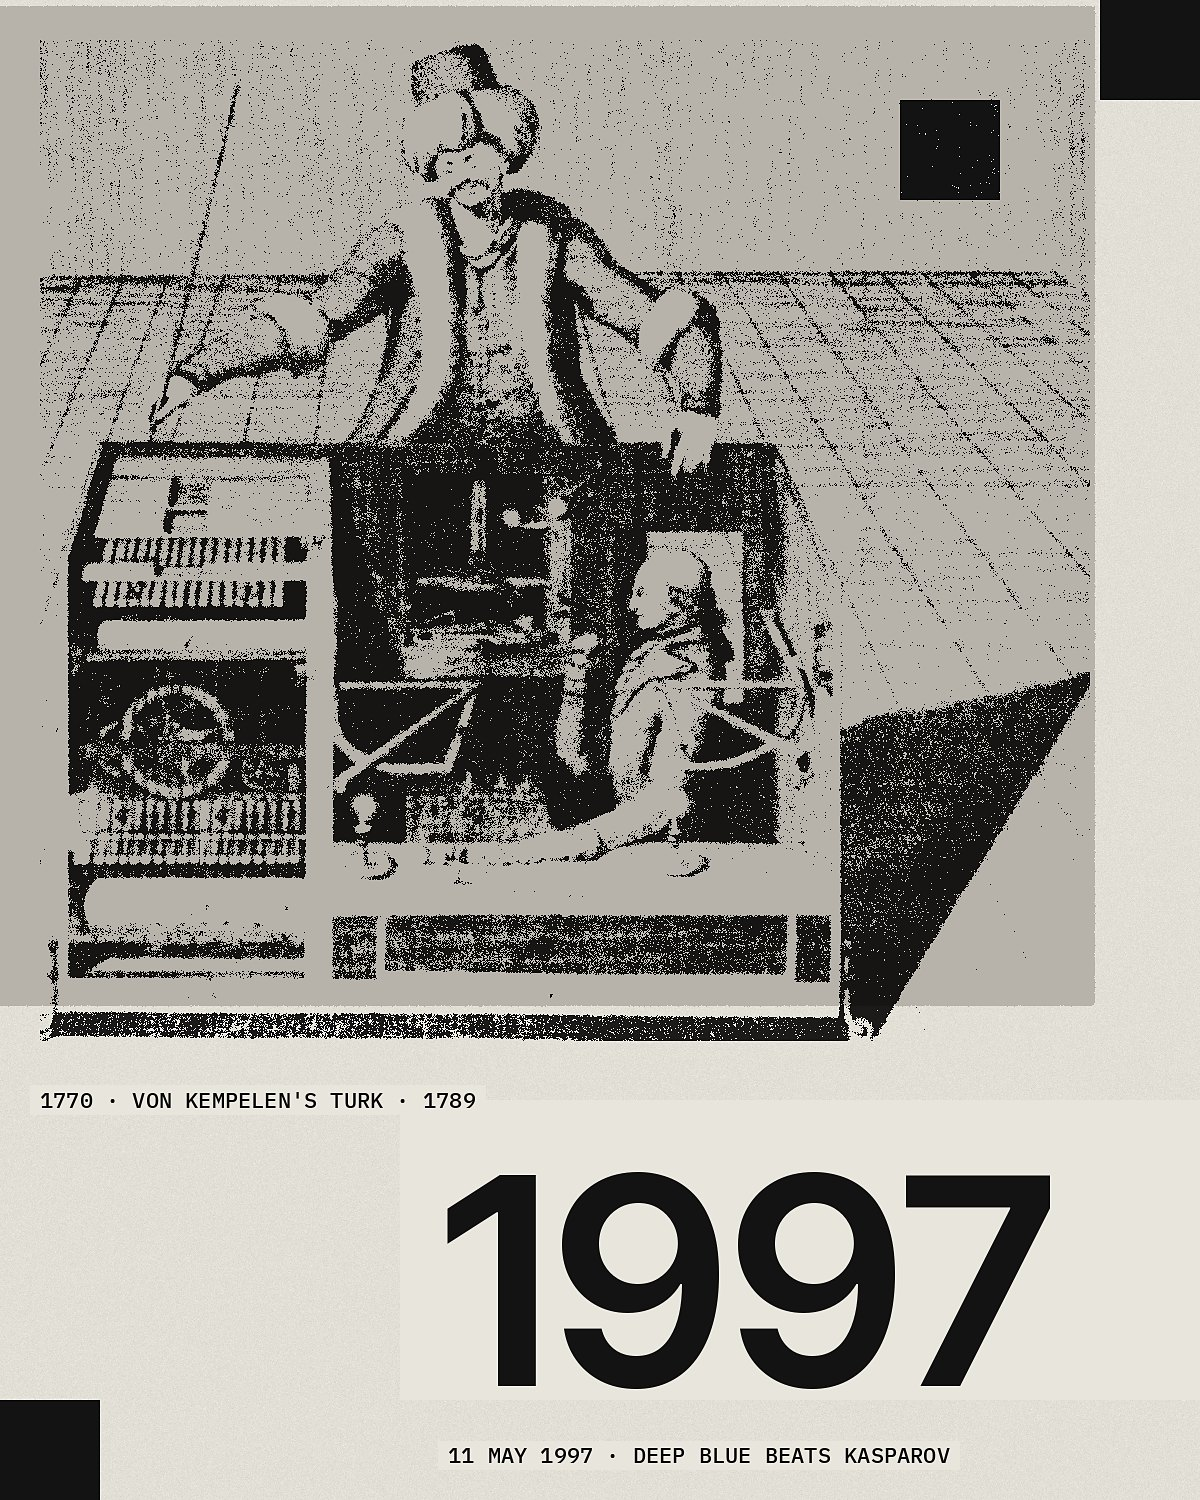
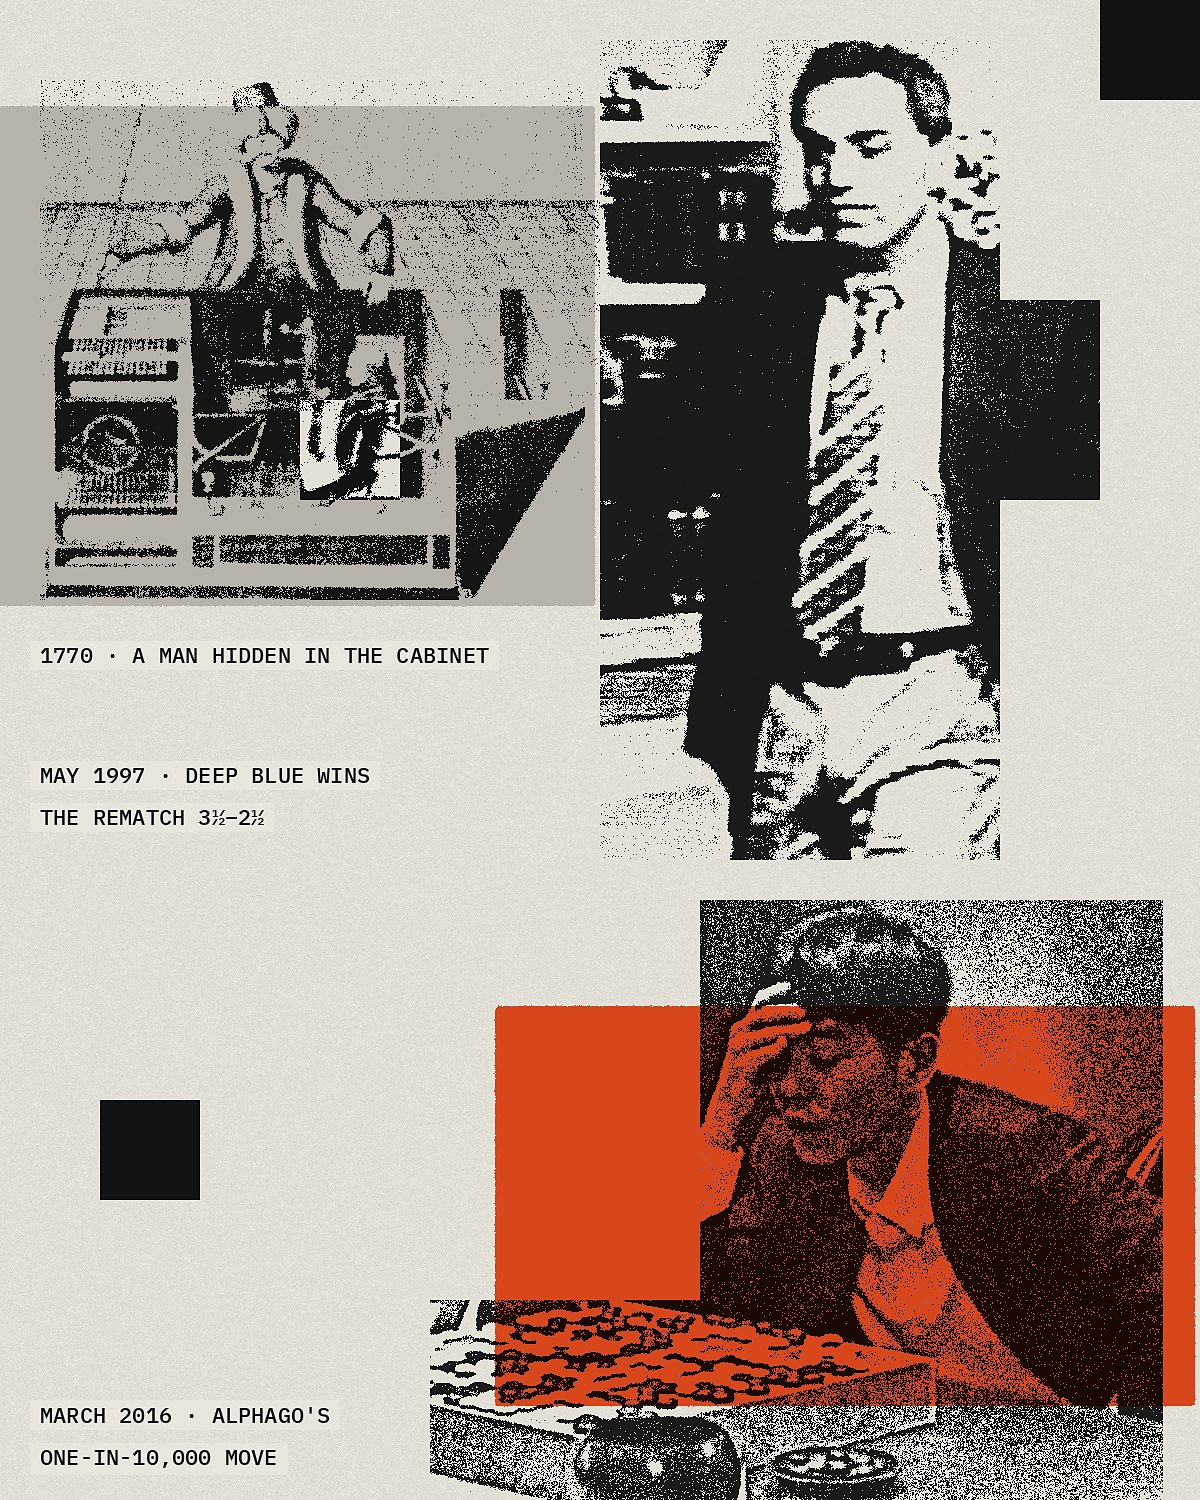
History of AI card redesigned: three machines at play (Turk 1770, Kasparov 1997, Lee Sedol 2016), a vertical version for phones and the history page, and variations on the three moments in the timeline
The two stills of people are an owner exception, cleared by the owner as fair use.
Engine: cut a fragment out along the grid (keep) and give a field its own colour.

Claude-Session: https://claude.ai/code/session_01Sc1pzyhKsrC3mM6v1oVhk6

diff --git a/src/styles/site.css b/src/styles/site.css
@@ -244,6 +244,7 @@ a.hist:hover .ht { text-decoration: underline; }
 .hcard:hover img { filter: brightness(0.96); }
 .hcard:hover .hc-t { text-decoration: underline; text-underline-offset: 6px; }
 .hcard:focus-visible { outline: 2px solid var(--ink); outline-offset: 6px; }
+.hpano img { aspect-ratio: 11 / 4; }
 .hc-side { display: grid; grid-template-columns: calc(var(--c) * 5 + var(--g) * 4) minmax(0, 1fr); column-gap: var(--g); row-gap: 28px; align-items: start; margin-top: 12px; }
 .hc-body { display: flex; flex-direction: column; gap: 12px; }
 .hc-t { margin: 0; font-size: 32px; line-height: 36px; font-weight: 600; letter-spacing: -0.015em; }
@@ -282,6 +283,7 @@ a.hist:hover .ht { text-decoration: underline; }
   .ph-site { display: none; }
 }
 @media (max-width: 640px) {
+  .hpano img { aspect-ratio: 4 / 5; }
   :root { --g: 20px; }
   .site-head { flex-wrap: wrap; row-gap: 12px; }
   .site-nav { flex-wrap: wrap; column-gap: 18px; row-gap: 6px; font-size: 15px; }

diff --git a/scripts/collages.py b/scripts/collages.py
@@ -80,11 +80,13 @@ def render(spec):
         canvas = canvas * (1 - mask[..., None]) + rgb * mask[..., None]
 
     col = hexrgb(spec['colour'])
-    for c, r, w, h in spec.get('fields', []):            # bold colour fields, misregistered
+    for fld in spec.get('fields', []):                    # bold colour fields, misregistered
+        c, r, w, h = fld[:4]
+        fcol = hexrgb(fld[4]) if len(fld) > 4 else col    # a field may carry its own colour
         m = np.roll(np.roll(rect(c, r, w, h), 6, axis=0), -5, axis=1)
         m[:6] = 0; m[:, -5:] = 0                           # no wrap-around at the edges
         edge = ndimage.gaussian_filter(m, 2.2) + rng.normal(0, 0.06, m.shape)
-        paint((edge > 0.5).astype(float), col)
+        paint((edge > 0.5).astype(float), fcol)
     for c, r, w, h in spec.get('black', []):
         paint(rect(c, r, w, h), INK)
 
@@ -92,7 +94,13 @@ def render(spec):
     for f in spec['fragments']:
         g = gray(f['img'], f['box'], f.get('crop'), f.get('channel'), f.get('detail', 0))
         m = halftone(g, f.get('period', 9)) if f['how'] == 'halftone' else screen(g, f.get('level', 0.5), blur=f.get('blur', 1.1))
-        ink = np.clip(ink + place(m, *f['at']), 0, 1)
+        pm = place(m, *f['at'])
+        if f.get('keep'):                                  # cut the fragment out along the grid: keep only these squares
+            k = np.zeros((H, W))
+            for kc, kr, kw, kh in f['keep']:
+                k = np.maximum(k, rect(kc, kr, kw, kh))
+            pm = pm * k
+        ink = np.clip(ink + pm, 0, 1)
     base = ink.copy()
     for c, r, w, h, dx, dy in spec.get('shift', []):      # cut-up squares
         m = rect(c, r, w, h)
@@ -197,18 +205,44 @@ SPECS = [
          fragments=[dict(img='governor-boulton-watt.jpg', box=(373, 800), crop=(0.53, 0.29, 0.885, 0.745), channel='R', how='screen', level=0.36, detail=1.2, blur=0.8, at=(300, 90))],
          shift=[(3, 7, 1, 1, 1, 0)], invert=[(1, 2, 1, 1)],
          labels=[('1960 · "THE PURPOSE PUT INTO THE MACHINE"', 760, 400), ('NORBERT WIENER', 760, 442), ("1788 · THE LAP ENGINE'S GOVERNOR · BOULTON AND WATT", 40, 960)]),
+    # History of AI: three machines at play (owner, 21 Nov 2026). The two stills of people are the owner's exception to the
+    # no-people rule, cleared by the owner; the Turk is public domain.
     dict(id='collage-history', size=HISTORY, colour=GREY, seed=1770,
-         fields=[(0, 0, 9, 7)], black=[(9, 0, 1, 1), (21, 7, 1, 1)],
-         fragments=[dict(img='turk-racknitz-1789.jpg', box=(724, 690), crop=(0.13, 0.115, 0.94, 0.96), how='screen', level=0.33, blur=1.3, at=(60, 30))],
-         shift=[(2, 5, 1, 1, 1, 0)], invert=[(7, 1, 1, 1)],
-         type=[dict(slab=(11, 2, 9, 4), parts=[('1997', 330, 1160, 205)])],
-         labels=[('11 MAY 1997 · DEEP BLUE BEATS KASPAROV', 1168, 640), ("1770 · VON KEMPELEN'S CHESS-PLAYING TURK · ENGRAVING, 1789", 40, 760)]),
+         fields=[(0, 1, 7, 6), (15, 1, 7, 6, ORANGE)], black=[(7, 0, 1, 1), (21, 7, 1, 1)],
+         fragments=[
+             dict(img='turk-racknitz-1789.jpg', box=(587, 560), crop=(0.13, 0.115, 0.94, 0.96), how='screen', level=0.33, blur=1.3, at=(60, 100)),
+             dict(img='kasparov-1997-still.jpg', box=(681, 680), crop=(0.0, 0.04, 0.53, 1.0), how='screen', level=0.36, detail=1.2, blur=1.0, at=(760, 50),
+                  keep=[(10, 0, 3, 8), (13, 3, 1, 2)]),
+             dict(img='lee-sedol-2016-still.jpg', box=(733, 640), crop=(0.33, 0.0, 1.0, 1.0), channel='B', how='screen', level=0.27, detail=1.0, blur=1.0, at=(1440, 80),
+                  keep=[(14, 5, 6, 3), (17, 0, 5, 8)])],
+         shift=[(6, 2, 1, 3, 1, 0)], invert=[(4, 6, 1, 1)],
+         labels=[('1770 · A MAN HIDDEN IN THE CABINET', 40, 760), ('MAY 1997 · DEEP BLUE WINS THE REMATCH 3½–2½', 780, 760), ("MARCH 2016 · ALPHAGO'S ONE-IN-10,000 MOVE", 1500, 760)]),
     dict(id='collage-history-tall', size=PAGE, colour=GREY, seed=1770,
-         fields=[(0, 0, 11, 10)], black=[(11, 0, 1, 1), (0, 14, 1, 1)],
-         fragments=[dict(img='turk-racknitz-1789.jpg', box=(1050, 1001), crop=(0.13, 0.115, 0.94, 0.96), how='screen', level=0.33, blur=1.4, at=(40, 40))],
-         shift=[(2, 8, 1, 1, 1, 0)], invert=[(9, 1, 1, 1)],
-         type=[dict(slab=(4, 11, 8, 3), parts=[('1997', 290, 440, 1105)])],
-         labels=[('11 MAY 1997 · DEEP BLUE BEATS KASPAROV', 448, 1440), ("1770 · VON KEMPELEN'S TURK · 1789", 40, 1085)]),
+         fields=[(0, 1, 6, 5), (5, 10, 7, 4, ORANGE)], black=[(11, 0, 1, 1), (1, 11, 1, 1)],
+         fragments=[
+             dict(img='turk-racknitz-1789.jpg', box=(545, 520), crop=(0.13, 0.115, 0.94, 0.96), how='screen', level=0.33, blur=1.3, at=(40, 80)),
+             dict(img='kasparov-1997-still.jpg', box=(821, 820), crop=(0.0, 0.04, 0.53, 1.0), how='screen', level=0.36, detail=1.2, blur=1.0, at=(380, 40),
+                  keep=[(6, 0, 4, 9), (10, 3, 1, 2)]),
+             dict(img='lee-sedol-2016-still.jpg', box=(733, 640), crop=(0.33, 0.0, 1.0, 1.0), channel='B', how='screen', level=0.27, detail=1.0, blur=1.0, at=(430, 860),
+                  keep=[(4, 13, 6, 2), (7, 9, 5, 6)])],
+         shift=[(5, 2, 1, 2, 1, 0)], invert=[(3, 4, 1, 1)],
+         labels=[('1770 · A MAN HIDDEN IN THE CABINET', 40, 640), ('MAY 1997 · DEEP BLUE WINS', 40, 760), ('THE REMATCH 3½–2½', 40, 802), ("MARCH 2016 · ALPHAGO'S", 40, 1400), ('ONE-IN-10,000 MOVE', 40, 1442)]),
+    # Variations for the three moments in the history timeline (4:3, as the timeline shows them)
+    dict(id='collage-moment-turk', size=ISM, colour=GREY, seed=1789,
+         fields=[(0, 1, 9, 10)], black=[(9, 0, 1, 1), (15, 11, 1, 1)],
+         fragments=[dict(img='turk-racknitz-1789.jpg', box=(757, 1000), crop=(0.42, 0.40, 0.78, 0.92), how='screen', level=0.34, blur=1.4, at=(120, 100))],
+         shift=[(2, 7, 1, 2, -1, 0)], invert=[(7, 3, 1, 1)],
+         labels=[('2005 · AMAZON NAMES A PLATFORM FOR', 960, 520), ('PAID ONLINE TASKS AFTER THE TURK', 960, 562), ('THE MAN INSIDE · RACKNITZ, 1789', 40, 1150)]),
+    dict(id='collage-moment-deep-blue', size=ISM, colour=GREY, seed=1997,
+         fields=[(0, 1, 7, 10)], black=[(7, 0, 1, 1), (15, 11, 1, 1)],
+         fragments=[dict(img='deep-blue-chm.jpg', box=(415, 1000), crop=(0.27, 0.23, 0.65, 0.84), how='screen', level=0.38, detail=1.5, blur=0.8, at=(240, 100))],
+         shift=[(1, 7, 1, 2, -1, 0)], invert=[(5, 2, 1, 1)],
+         labels=[('MAY 1997 · 200 MILLION', 820, 480), ('CHESS POSITIONS A SECOND', 820, 522), ('IBM DEEP BLUE · COMPUTER HISTORY MUSEUM', 40, 1150)]),
+    dict(id='collage-moment-alphago', size=ISM, colour=ORANGE, seed=2016,
+         fields=[(1, 1, 8, 10)], black=[(9, 0, 1, 1), (15, 11, 1, 1)],
+         fragments=[dict(img='lee-sedol-2016-still.jpg', box=(767, 1000), crop=(0.55, 0.0, 0.9, 0.78), channel='B', how='screen', level=0.27, detail=1.0, blur=1.0, at=(160, 100))],
+         shift=[(2, 8, 1, 2, -1, 0)], invert=[(7, 2, 1, 1)],
+         labels=[('MARCH 2016 · ALPHAGO WINS', 1000, 480), ('FOUR GAMES TO ONE', 1000, 522), ('LEE SEDOL · SEOUL', 40, 1150)]),
     # Vertical page images (4:5), one per theme: the same object and fact, composed for the tall frame
     dict(id='collage-scale-tall', size=PAGE, colour=GREY, seed=233,
          fields=[(0, 0, 9, 8)], black=[(11, 1, 1, 1), (0, 12, 1, 2)],

diff --git a/WORKPLAN.md b/WORKPLAN.md
@@ -33,7 +33,7 @@ Every session starts here: find the first stage that is not done, do the next pi
 
 - Whether images under a non-commercial licence (CC BY-NC, e.g. the British Museum's Gilgamesh tablet, a Barlach lithograph) are acceptable.
 
-- Image batch approvals (sent as lists when ready). Batches 6 and 7 were approved and used (Watt's governor for Alignment; von Kempelen's Turk with 1997 for the History of AI).
+- Image batch approvals (sent as lists when ready). Batches 6, 7 and 8 were approved and used (Watt's governor for Alignment; von Kempelen's Turk for the History of AI; Deep Blue at the Computer History Museum for its moment). Still needed from the owner: the source of the Kasparov and Lee Sedol stills.
 - The domain (mademinds.org: owner checks and buys it), and when to allow search engines (remove the noindex tag).
 - Hosting (owner, 21 Nov: later): move the site from GitHub Pages to Cloudflare, likely Workers static assets serving `dist/` (no adapter needed for a static Astro build), with the domain mademinds.org. Needs the owner's Cloudflare account and explicit go; no session starts it on its own.
 - Before launch: delete the dev grid switch (owner, 21 Nov: the "Grid" button and G key in `src/layouts/Base.astro`, and the "DEV ONLY" block at the end of `src/styles/site.css`). The name Made Minds was decided on 20 November 2026.
@@ -50,6 +50,8 @@ The site now has three tracks: **Movements** (the six, done), **History of AI** 
 6. Tick this file, add a line to the log, commit, push. Fetch before every push, because the owner's conversation also pushes to `main`.
 
 ## Log
+
+- 2026-11-21: History of AI card redesigned (owner): three machines at play, the Turk (1770), Kasparov walking away from Deep Blue (1997) and Lee Sedol against AlphaGo (2016), no big type, labels along the bottom; grey, paper and orange. A vertical version for phones and the history page, and three variations as images on those moments in the timeline (the Turk's hidden player, Deep Blue's towers from batch 8, Lee Sedol). The two stills are an owner exception to the no-people rule, cleared by the owner as fair use; their source is still to be recorded. Engine: fragments can be cut out along the grid (`keep`), and a field can carry its own colour.
 
 - 2026-11-21: The scheduled task's instructions and this procedure rewritten for the new direction (three tracks, key words, history, image batches only, no deploy from scheduled runs). The scheduled task is paused until the owner resumes it.
 

diff --git a/CLAUDE.md b/CLAUDE.md
@@ -54,7 +54,7 @@ Schemas are in `src/content.config.ts`; the build fails on a broken reference. S
 ## Image rules
 
 - **Never AI-generated.** Human-made images only: documents, title pages, diagrams, machines, places, artworks, photographs of objects or events.
-- **No portraits or photographs of real people**, whatever their licence (owner, 20 Nov 2026: too many people, too many images). Notable figures appear as names only: an index on each ism page where each name folds open to a short note and a link to its moment in the history.
+- **No portraits or photographs of real people**, whatever their licence (owner, 20 Nov 2026: too many people, too many images). Notable figures appear as names only: an index on each ism page where each name folds open to a short note and a link to its moment in the history. One exception (owner, 21 Nov 2026): the History of AI card and its timeline moments show Garry Kasparov (1997) and Lee Sedol (2016) from broadcast stills, which the owner cleared as fair use; no other images of people without the owner's say.
 - Record every image in `src/data/images/` with title, date, rights (`public-domain`, `open-licence` + licence, `cleared`, `to-check`) and `sourceUrl` of the page where the licence was read.
 - Prefer Wikimedia Commons, the Library of Congress, the Internet Archive and museum open-access collections. Copyrighted items (book covers, press photos, film stills) stay `to-check` placeholders until the owner clears them.
 - Downloads happen only after the owner approves a batch (a list of files with source, size and licence). They go to the owner's connected folder `isms-genealogy-images` and are then copied into `public/images/`.

diff --git a/docs/image-batches/batch-08.md b/docs/image-batches/batch-08.md
@@ -1,6 +1,6 @@
 # Image batch 8 — 21 November 2026
 
-Status: **waiting for the owner's yes.** Nothing downloaded. For the redesigned **History of AI** card: three machines at play, from a fake mind to brute force to a move no human would play. No photographs of people: the owner's suggested stills of Garry Kasparov (1997) and Lee Sedol (2016) show real people and are press or broadcast images, so the card uses the machines and the board instead. Licences read through the Wikimedia Commons API and on the file pages.
+Status: **approved by the owner on 21 November 2026: Deep Blue (1) only.** Used for the Deep Blue moment in the timeline. The owner chose his own stills of Kasparov (1997) and Lee Sedol (2016) for the card itself, cleared by him as fair use; the Go stones were not needed. For the redesigned **History of AI** card: three machines at play, from a fake mind to brute force to a move no human would play. No photographs of people: the owner's suggested stills of Garry Kasparov (1997) and Lee Sedol (2016) show real people and are press or broadcast images, so the card uses the machines and the board instead. Licences read through the Wikimedia Commons API and on the file pages.
 
 | # | Image id (proposed) | What it shows | File page | Licence | Credit | Size |
 | --- | --- | --- | --- | --- | --- | --- |
